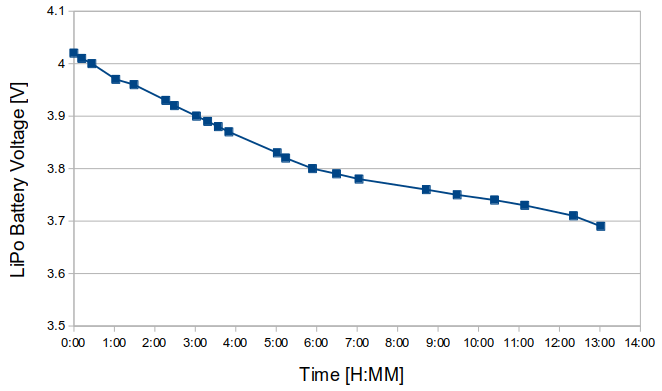
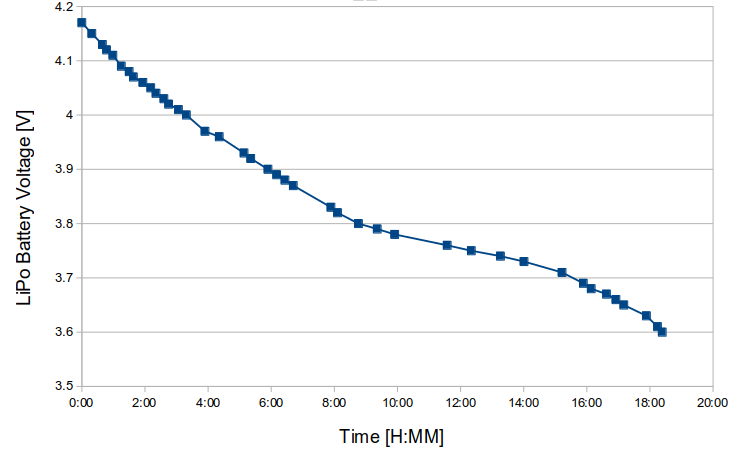
heartwatch

diff --git a/_embedded/00-heartwatch.md b/_embedded/00-heartwatch.md
@@ -232,7 +232,7 @@ Definitely good enough for now. I build it "tight enough" to not slip in the sil
 
 ### Case design & 3D printing
 
-So now that I had a roughly functioning watch, I wanted something to give it a bit more protection. I thought about using Sugru (too finicky for what I wanted) or making some Oogoo (likely not skin friendly unless I bought some aluminum-cure silicone) to form the watch protective skin. Then the kids had a week off of school and looked bored. And they each have their favorite CAD software. And their friend Rohan has a hobby 3D printer. So we whipped up a little box one morning and had it printed by that evening. I did a bunch of rough measurements and estimating, we had a contest to see which software was easier to use (Ian's Fusion360 was the winner), and then went for it.
+So now that I had a roughly functioning watch, I wanted something to give it a bit more protection. I thought about using Sugru (too finicky for what I wanted) or making some Oogoo (likely not skin friendly unless I bought some aluminum-cure silicone) to form the watch protective skin. Then the kids had a week off of school and looked bored. And they each have their favorite CAD software. And their friend Rohan has a hobby 3D printer. So we whipped up a little box one morning and had it printed in polylactic acid (PLA) thermoplastic by that evening. I did a bunch of rough measurements and estimating, we had a contest to see which software was easier to use (Ian's Fusion360 was the winner), and then went for it.
 
 ![]({{ site.url }}/assets/images/projects/heartwatch/CAD.png)
 *Personal Fabrication: From CAD to doo-dad in 3 hrs. Neil Gershenfeld, eat your heart out*
@@ -260,7 +260,7 @@ The current case sidewall thickness is only about 1.5 mm, so hard to do too much
 
 ### Pushbuttons - silicone & hot glue
 
-So (almost) everything was cool about the case. Except it is hard to reach the SD card (either long fingernails or a key or coin or pen tip). And then what to do about the pushbutton switches? They're recessed & also hard to reach. Hmmmm.
+So (almost) everything was cool about the case. Except it is hard to reach the SD card (either long fingernails or a paperclip). And then what to do about the pushbutton switches? They're recessed & also hard to reach. Hmmmm.
 
 Lets skip the experiments on this one.
 
@@ -577,7 +577,7 @@ First of all, they warn you printf is not safe. Okay, well its my wrist, and the
 One thing I did know was that the LCD can be a power hog. So I implemented a variable PWM backlight with a pushbutton and interrupt dedicated only to this. Other than that, I have to admit I didn't really have a clue how long the battery was going to last. I didn't even do the most basic benchtop measurements. You'll see that understanding the power consumption was at the top of my list of things to work on. First data looks really promising:
 
 ![]({{ site.url }}/assets/images/projects/heartwatch/charge_life.png)
-*We'll get at least a 12+ hour day*
+*We'll get 18 hours out of it*
 
 Pretty interesting how close this looks to published 1s LiPo discharge curves.
 
